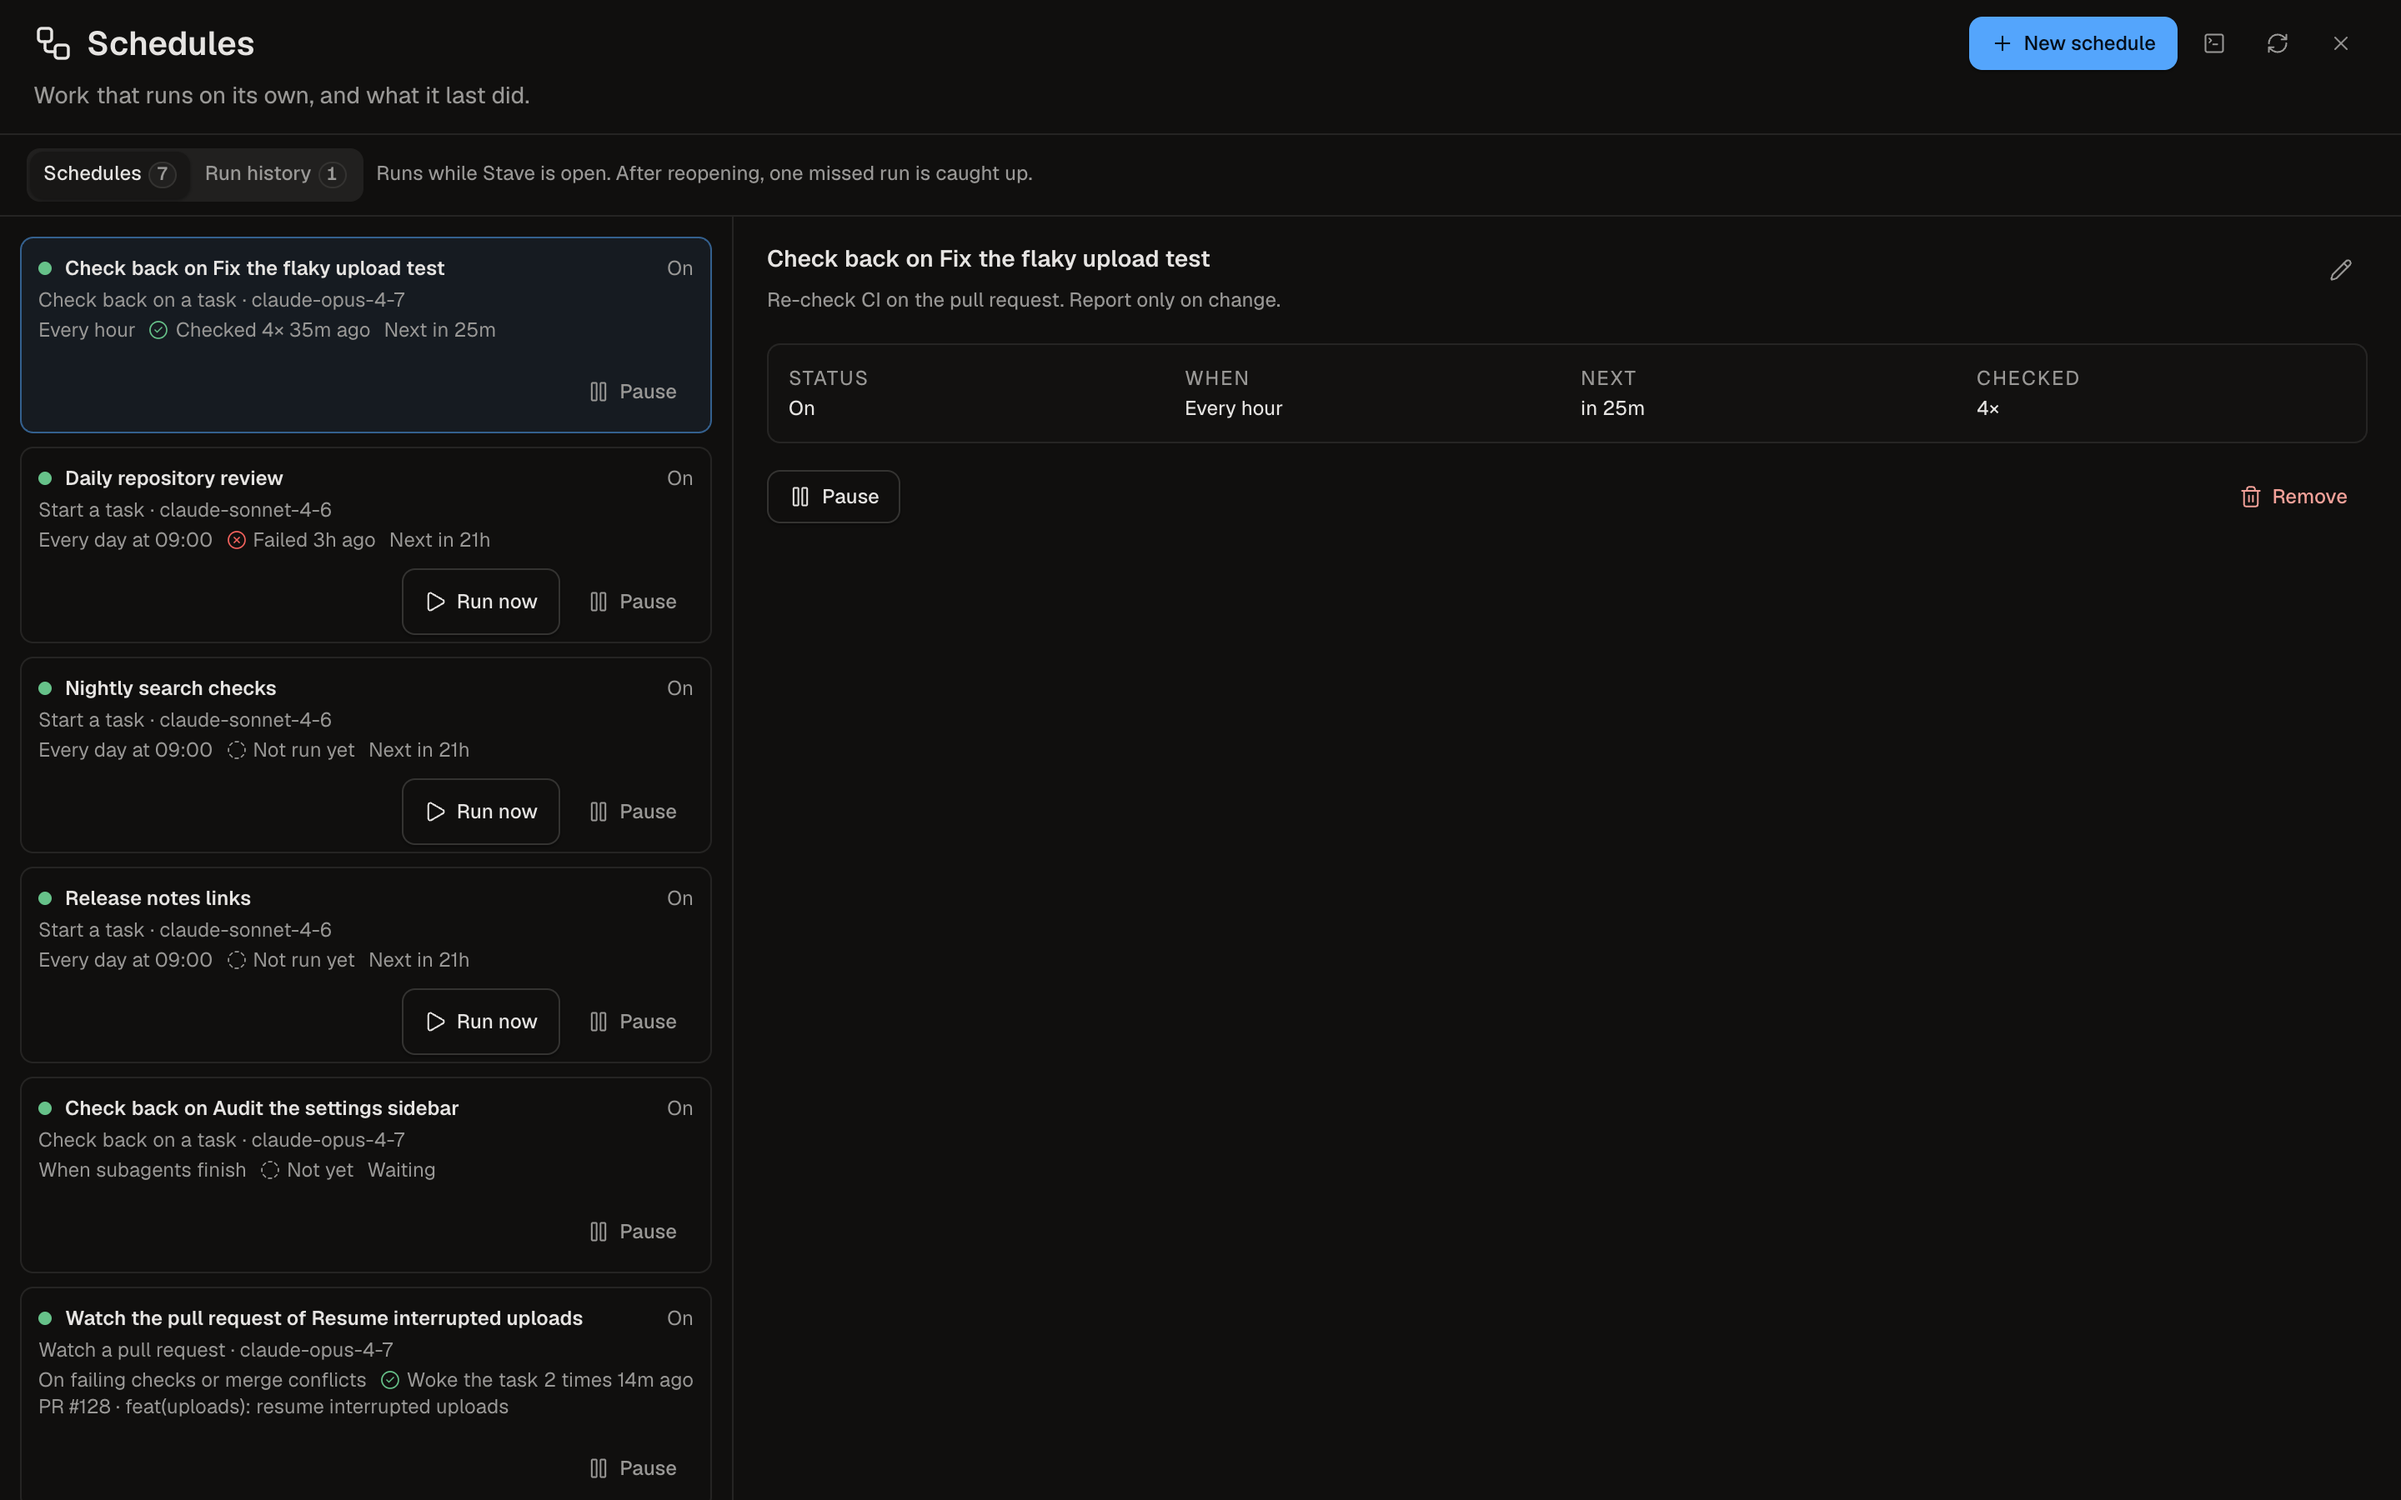
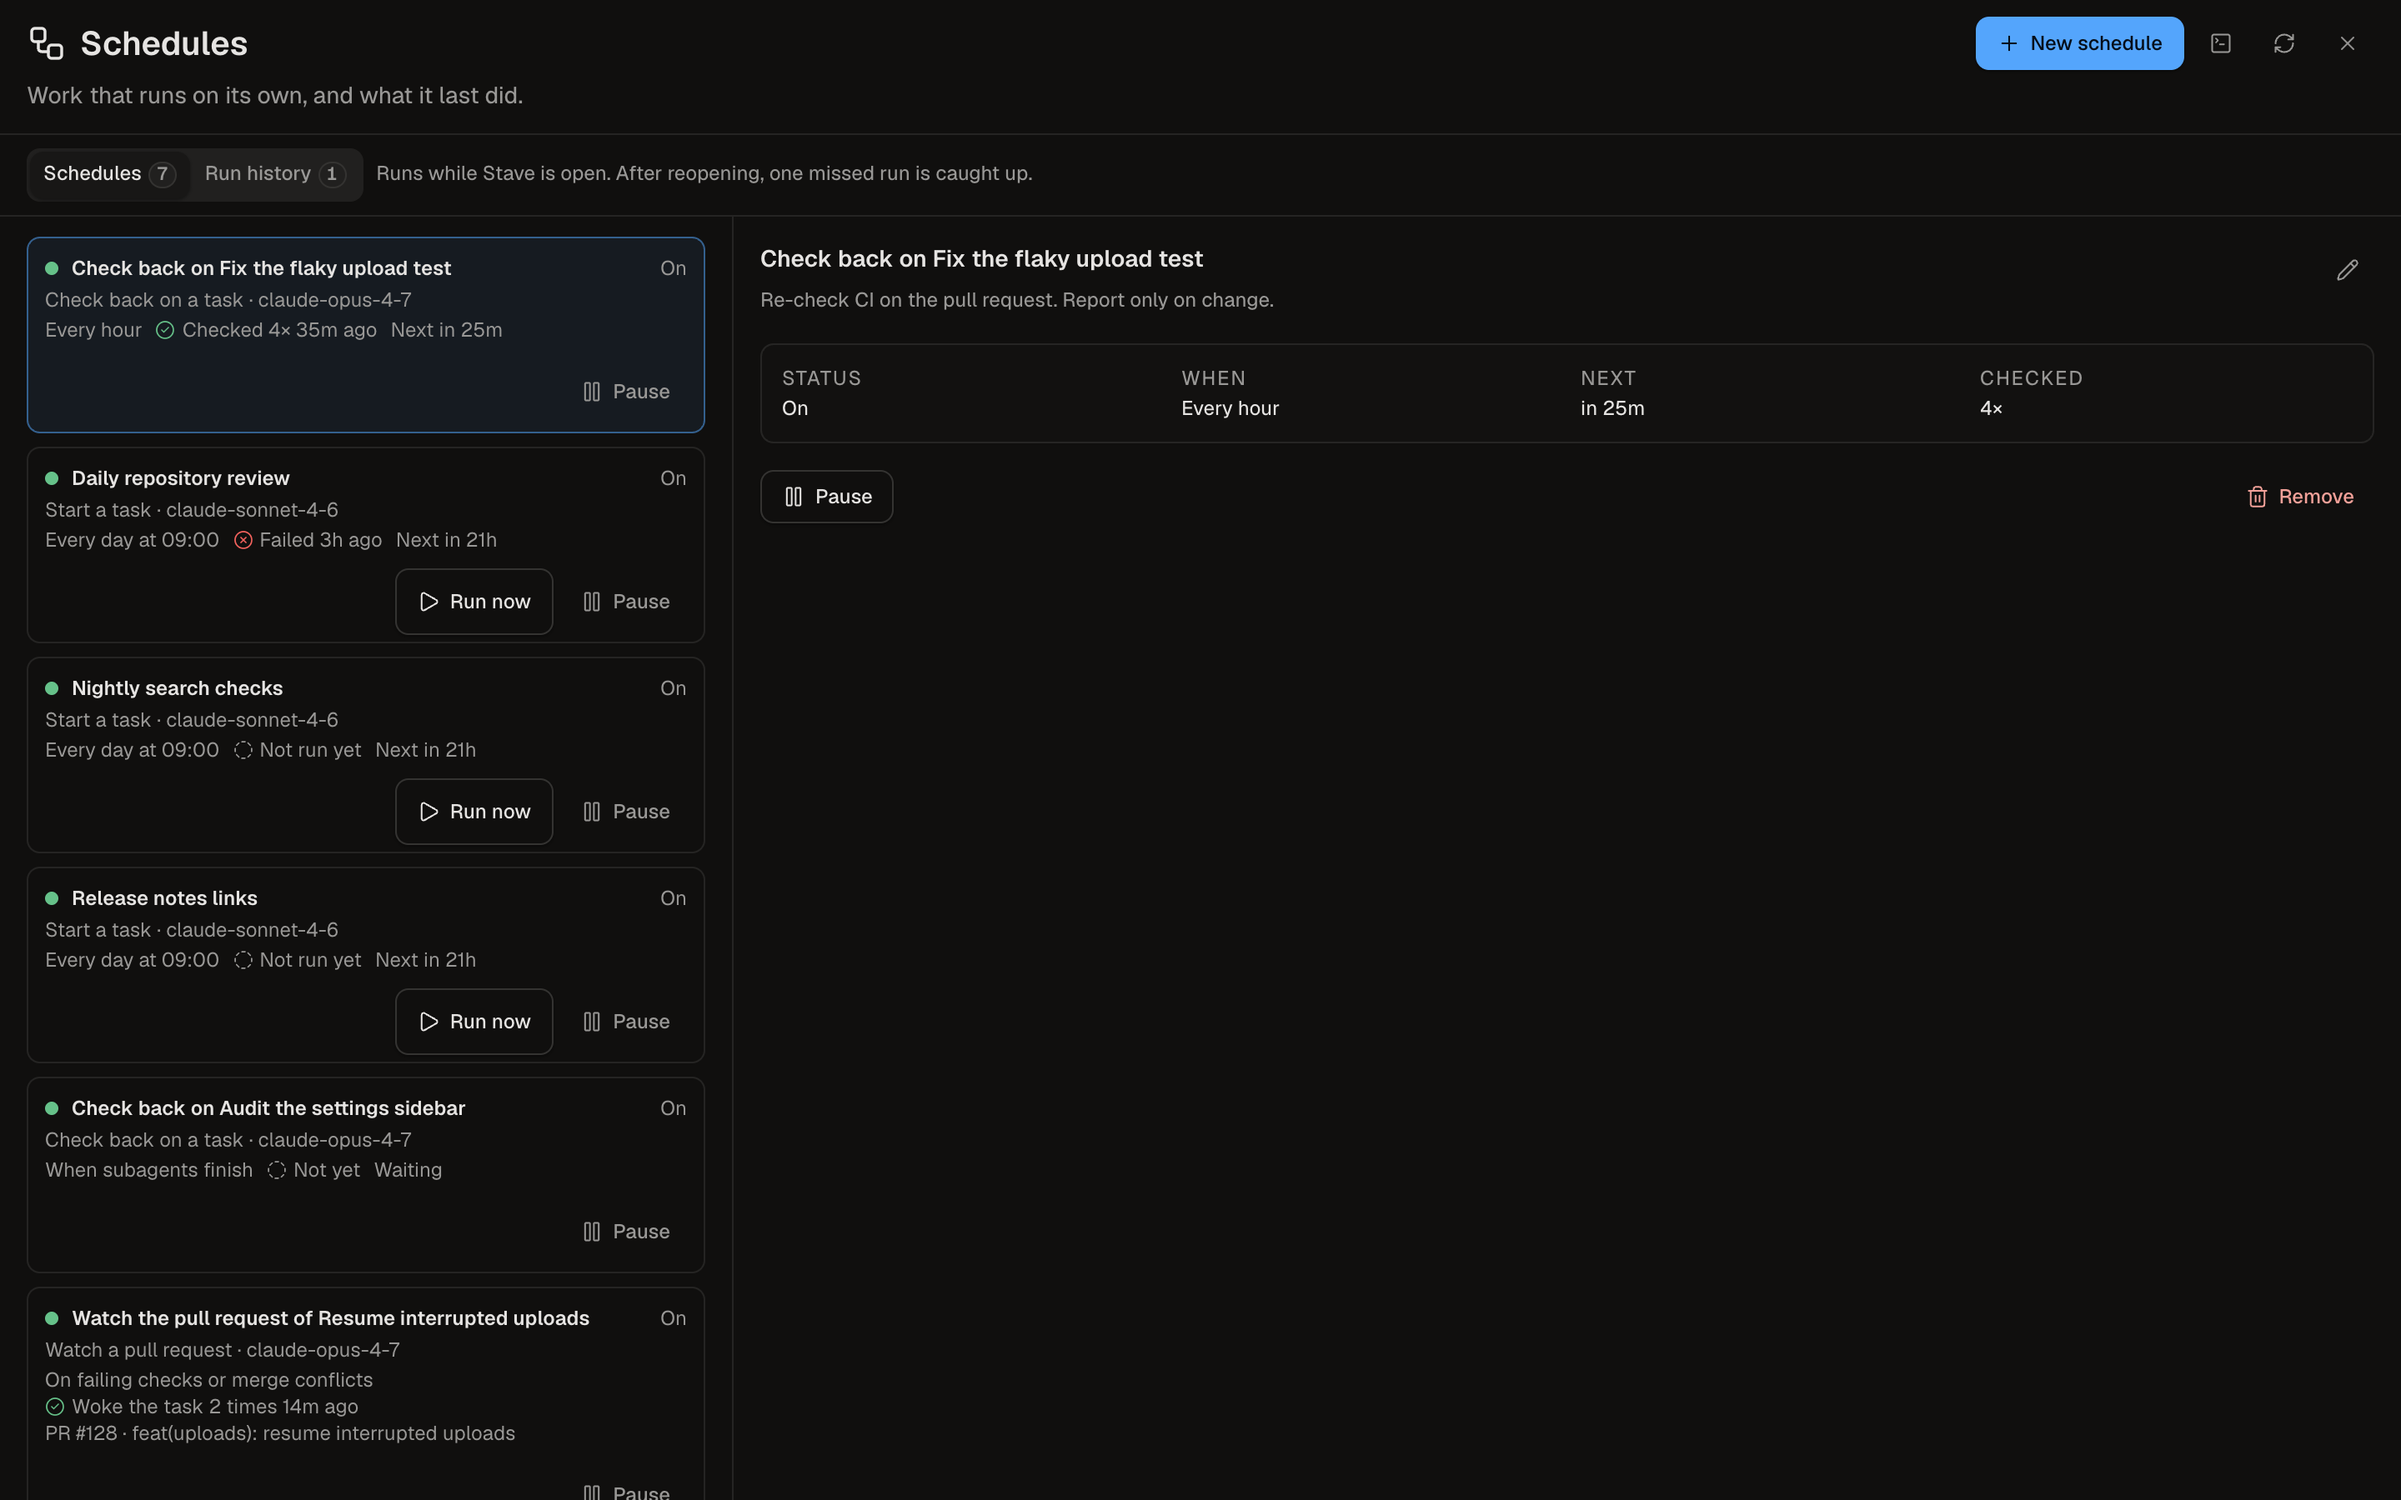
fix(ui): give full-bleed surfaces one 16px inline inset
The page header of Fleet, Schedules, Agents, Issues and Tars used 20px,
their toolbars 16px, and the first column or band under them 12px (the
Fleet attention band, the Schedules and Agents lists) or 20px (the
Schedules detail), so the header, toolbar and body started on three
different edges.

All of them now use the AUI space16 token: GlobalPageHeader's surface
placement, the Fleet attention header, the Schedules list, run history,
compact picker and detail, and the Agents list. A rendered regression
(tests/e2e/surface-inline-inset.e2e.ts, in test:ui-layout) checks the
shared edges in light and dark. The guide screenshots for these surfaces
are recaptured.

diff --git a/tests/e2e/surface-inline-inset.e2e.ts b/tests/e2e/surface-inline-inset.e2e.ts
@@ -1,0 +1,92 @@
+import { expect, test, type Locator, type Page } from "@playwright/test";
+
+/**
+ * Full-bleed surfaces share one inline inset, `space16`: the page header
+ * (`GlobalPageHeader` placement `surface`), the toolbar under it and the first
+ * column or band of the body all start and end on the same edges. Before,
+ * the header used 20px while toolbars used 16px and list columns 12px.
+ */
+async function token(page: Page, name: string) {
+  return page.evaluate((name) => {
+    const probe = document.createElement("div");
+    probe.style.width = `var(${name})`;
+    document.body.append(probe);
+    const width = probe.getBoundingClientRect().width;
+    probe.remove();
+    return width;
+  }, name);
+}
+
+/** Where an element's content starts and ends, as distances from the surface's edges. */
+async function insets(element: Locator, surface: Locator) {
+  const outer = await surface.boundingBox();
+  return element.evaluate((node, outer) => {
+    const box = node.getBoundingClientRect();
+    const style = getComputedStyle(node);
+    return {
+      left: box.left + parseFloat(style.paddingLeft) + parseFloat(style.borderLeftWidth) - outer!.x,
+      right: outer!.x + outer!.width - (box.right - parseFloat(style.paddingRight) - parseFloat(style.borderRightWidth)),
+    };
+  }, outer);
+}
+
+async function expectSharedInset(page: Page, bands: Locator[]) {
+  await page.evaluate(() => document.fonts.ready.then(() => undefined));
+  const header = page.locator('[data-placement="surface"]');
+  const surface = header.locator("xpath=..");
+  const inset = await token(page, "--aui-space-16");
+  for (const band of [header, ...bands]) {
+    const edges = await insets(band.first(), surface);
+    expect(Math.abs(edges.left - inset)).toBeLessThanOrEqual(0.5);
+  }
+  // The header and the toolbar also end on the same inset.
+  for (const band of [header, bands[0]!]) {
+    const edges = await insets(band.first(), surface);
+    expect(Math.abs(edges.right - inset)).toBeLessThanOrEqual(0.5);
+  }
+}
+
+for (const theme of ["light", "dark"]) {
+  test(`Schedules header, toolbar and schedule list share the 16px inset (${theme})`, async ({ page }) => {
+    await page.setViewportSize({ width: 1440, height: 900 });
+    await page.goto(`/?stavePreview=schedules&theme=${theme}`);
+    await expect(page.locator('[data-placement="surface"]')).toBeVisible();
+    await expectSharedInset(page, [
+      page.locator('[class*="centerStyles.toolbar"]'),
+      page.locator('[class*="centerStyles.masterColumn"]'),
+    ]);
+  });
+
+  test(`Agents header, toolbar and agent list share the 16px inset (${theme})`, async ({ page }) => {
+    await page.setViewportSize({ width: 1440, height: 900 });
+    await page.goto(`/?stavePreview=agents&surface=1&theme=${theme}`);
+    await expect(page.locator('[data-placement="surface"]')).toBeVisible();
+    await expectSharedInset(page, [
+      page.locator('[class*="centerStyles.toolbar"]'),
+      page.locator('[class*="workflowStyles.master"]'),
+    ]);
+  });
+}
+
+test("Fleet header, toolbar and attention band share the 16px inset", async ({ page }) => {
+  await page.addInitScript(() => {
+    const repositoryPath = "/tmp/fleet-inset";
+    const updatedAt = new Date().toISOString();
+    const tasks = [{ id: "task-1", title: "Task 1", provider: "codex", updatedAt, unread: false, archivedAt: null, controlMode: "interactive", controlOwner: "stave" }];
+    const workspace = { id: "ws", name: "ws", updatedAt };
+    const snapshot = { activeTaskId: "task-1", tasks, messagesByTask: {}, openTaskTabIds: ["task-1"] };
+    localStorage.setItem("stave:workspace-fallback:v1", JSON.stringify([{ ...workspace, snapshot }]));
+    localStorage.setItem("stave-store", JSON.stringify({ state: { ...snapshot, repositoryPath, repositoryName: "Fleet inset", workspaces: [workspace],
+      activeWorkspaceId: workspace.id, workspacePathById: { [workspace.id]: repositoryPath }, workspaceDefaultById: { [workspace.id]: true } }, version: 0 }));
+    (window as unknown as { api: unknown }).api = { provider: { streamTurn: async () => [] }, terminal: { runCommand: async () => ({ ok: true, code: 0, stdout: "", stderr: "" }) },
+      sourceControl: { getStatus: async () => ({ ok: true, branch: "main", items: [], hasConflicts: false, stderr: "" }), getHistory: async () => ({ ok: true, items: [], stderr: "" }) } };
+  });
+  await page.setViewportSize({ width: 1440, height: 900 });
+  await page.goto("/");
+  await page.getByTestId("top-bar").getByRole("button", { name: "Open Fleet View" }).click();
+  await expect(page.locator("[data-fleet-view-root='true']")).toBeVisible();
+  await expectSharedInset(page, [
+    page.locator('[class*="fleetStyles.toolbar"]'),
+    page.locator('[class*="attentionStyles.header"]'),
+  ]);
+});

diff --git a/src/components/layout/automation-center/automation-center-view.styles.ts b/src/components/layout/automation-center/automation-center-view.styles.ts
@@ -230,7 +230,9 @@ export const centerStyles = stylex.create({
     flexDirection: "column",
     minBlockSize: 0,
     overflowY: "auto",
-    padding: vars["--aui-space-12"],
+    paddingBlock: vars["--aui-space-12"],
+    // The full-bleed surface inset (`GlobalPageHeader`).
+    paddingInline: vars["--aui-space-16"],
   },
   runsMasterColumn: {
     borderBlockEndColor: vars["--aui-color-border-subtle"],
@@ -247,7 +249,9 @@ export const centerStyles = stylex.create({
     },
     minBlockSize: 0,
     overflowY: "auto",
-    padding: vars["--aui-space-12"],
+    paddingBlock: vars["--aui-space-12"],
+    // The full-bleed surface inset (`GlobalPageHeader`).
+    paddingInline: vars["--aui-space-16"],
   },
   cardList: { display: "grid", gap: vars["--aui-space-8"] },
   automationCard: {
@@ -311,7 +315,9 @@ export const centerStyles = stylex.create({
     borderBlockEndStyle: "solid",
     borderBlockEndWidth: vars["--aui-border-width-hairline"],
     display: { default: "block", "@media (min-width: 48rem)": "none" },
-    padding: vars["--aui-space-12"],
+    paddingBlock: vars["--aui-space-12"],
+    // The full-bleed surface inset (`GlobalPageHeader`).
+    paddingInline: vars["--aui-space-16"],
   },
   compactSelect: { blockSize: 32, fontSize: vars["--aui-font-size-caption"] },
 
@@ -319,7 +325,7 @@ export const centerStyles = stylex.create({
     display: "grid",
     gap: vars["--aui-space-16"],
     paddingBlock: vars["--aui-space-16"],
-    paddingInline: vars["--aui-space-20"],
+    paddingInline: vars["--aui-space-16"],
   },
   detailHeadRow: {
     alignItems: "flex-start",

diff --git a/src/components/system/GlobalPageHeader.tsx b/src/components/system/GlobalPageHeader.tsx
@@ -7,7 +7,9 @@ import { sx } from "@/components/aui/utils/stylex";
  * Where the header sits, which decides who owns the page's inline inset:
  * - `surface` (default): the full-bleed top band of a surface whose body runs
  *   edge to edge (Fleet, Schedules, Agents, Issues, Tars). The header owns the
- *   inset and its divider spans the surface.
+ *   inset and its divider spans the surface. Full-bleed surfaces share one
+ *   inline inset, `space16`, so the header, toolbars and first column start on
+ *   the same edge.
  * - `column`: the first row of a centered page column that already owns the
  *   inset (Activity, AI usage). The header adds none, so its title starts on
  *   the same edge as the column's content and the divider spans the column.
@@ -20,7 +22,7 @@ export function GlobalPageHeader({ placement = "surface", ...props }: PageHeader
 }
 const styles = stylex.create({
   root: {
-    flexShrink: 0, paddingBlock: vars["--aui-space-12"], paddingInline: vars["--aui-space-20"],
+    flexShrink: 0, paddingBlock: vars["--aui-space-12"], paddingInline: vars["--aui-space-16"],
     borderBottomWidth: vars["--aui-border-width-hairline"], borderBottomStyle: "solid", borderBottomColor: vars["--aui-color-border-subtle"],
   },
   // The column's own block padding already separates the header from the top.

diff --git a/src/components/workflows/workflows.styles.ts b/src/components/workflows/workflows.styles.ts
@@ -30,7 +30,9 @@ export const workflowStyles = stylex.create({
     gap: vars["--aui-space-8"],
     minHeight: 0,
     overflowY: "auto",
-    padding: vars["--aui-space-12"],
+    paddingBlock: vars["--aui-space-12"],
+    // The full-bleed surface inset (`GlobalPageHeader`).
+    paddingInline: vars["--aui-space-16"],
     borderInlineEndWidth: vars["--aui-border-width-hairline"],
     borderInlineEndStyle: "solid",
     borderInlineEndColor: vars["--aui-color-border-subtle"],

diff --git a/src/components/layout/fleet-attention-inbox.styles.ts b/src/components/layout/fleet-attention-inbox.styles.ts
@@ -22,7 +22,8 @@ export const attentionStyles = stylex.create({
     gap: vars["--aui-space-8"],
     justifyContent: "space-between",
     paddingBlock: vars["--aui-space-8"],
-    paddingInline: vars["--aui-space-12"],
+    // The full-bleed surface inset (`GlobalPageHeader`).
+    paddingInline: vars["--aui-space-16"],
   },
   /** Section eyebrow: Caption, uppercase, medium. */
   groupHeading: {
